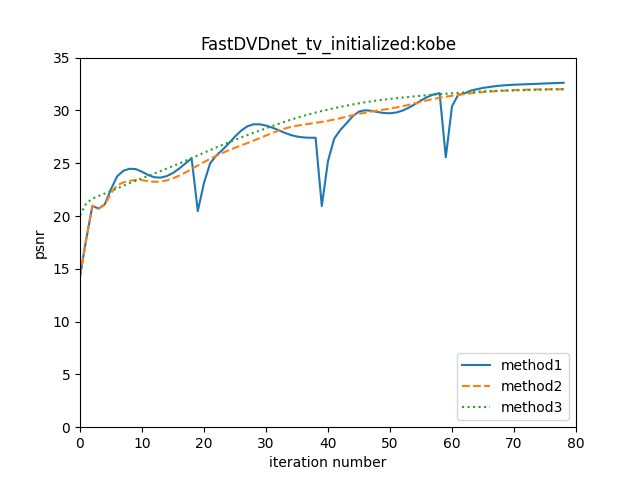
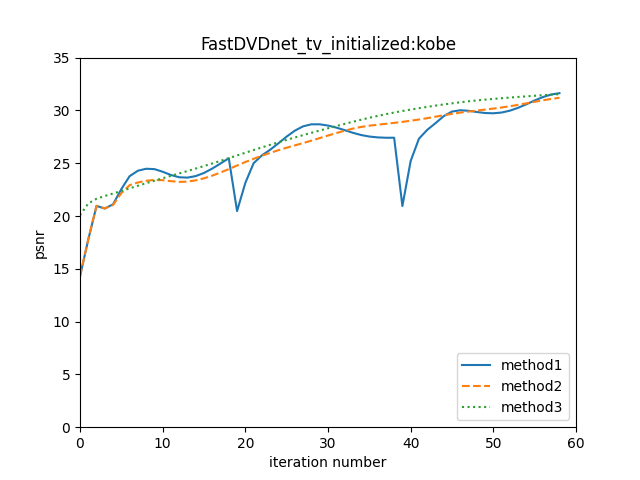
[fix] file
fix file

diff --git a/make_graph.py b/make_graph.py
@@ -5,12 +5,12 @@ import os
 
 dir_path = "/home/jovyan/workdir/results/savedmat"
 # alldatname = ['kobe32','traffic48','runner40','drop40','crash32','aerial32']
-dataname = 'traffic48'
+dataname = 'kobe32'
 data_path = "/grayscale/"+dataname+"/data/"
-file_names = ["gapffdnet_psnr_method1", "gapffdnet_psnr_method2", "gapffdnet_psnr_method3"]
+# file_names = ["gapffdnet_psnr_method1", "gapffdnet_psnr_method2", "gapffdnet_psnr_method3"]
 # file_names = ["gapfastdvdnet_psnr_method1", "gapfastdvdnet_psnr_method2", "gapfastdvdnet_psnr_method3"]
 # file_names = ["gapfastdvdnet_psnr_method1_tv_initialize1", "gapfastdvdnet_psnr_method2_tv_initialize1", "gapfastdvdnet_psnr_method3_tv_initialize1"]
-# file_names = ["gapfastdvdnet_psnr_method1_tv_initialize5", "gapfastdvdnet_psnr_method2_tv_initialize5", "gapfastdvdnet_psnr_method3_tv_initialize5"]
+file_names = ["gapfastdvdnet_psnr_method1_tv_initialize5", "gapfastdvdnet_psnr_method2_tv_initialize5", "gapfastdvdnet_psnr_method3_tv_initialize5"]
 
 # file_names = ["gapfastdvdnet_psnr_method1", "gapfastdvdnet_psnr_method2", "gapfastdvdnet_psnr_method3", "gapfastdvdnet_psnr_method4", "gapfastdvdnet_psnr_method5"]
 # file_names = ["gapfastdvdnet_psnr_method1_tv_initialize1", "gapfastdvdnet_psnr_method2_tv_initialize1", "gapfastdvdnet_psnr_method3_tv_initialize1", "gapfastdvdnet_psnr_method4_tv_initialize1", "gapfastdvdnet_psnr_method5_tv_initialize1"]
@@ -68,32 +68,32 @@ for file_path in file_paths:
 # plt.savefig(curr_gragh_path)
 
 # FFDnet
-fig = plt.figure(0)
-plt.plot(data[0], linestyle = "-", label = "method1")
-plt.plot(data[1], linestyle = "--", label = "method2")
-plt.plot(data[2], linestyle = ":", label = "method3")
-plt.title("FFDnet:{}".format(dataname[:-2]))
-plt.ylim([0,35])
-plt.xlim([0,80])
-plt.legend(loc = "lower right")
-plt.xlabel("iteration number")
-plt.ylabel("psnr")
-curr_gragh_path = gragh_path + "{}.png".format("ffdnet3")
-plt.savefig(curr_gragh_path)
-
-# TVで初期化したやつ
 # fig = plt.figure(0)
 # plt.plot(data[0], linestyle = "-", label = "method1")
 # plt.plot(data[1], linestyle = "--", label = "method2")
 # plt.plot(data[2], linestyle = ":", label = "method3")
-# plt.title("FastDVDnet_tv_initialized:{}".format(dataname[:-2]))
-# plt.ylim([0,40])
+# plt.title("FFDnet:{}".format(dataname[:-2]))
+# plt.ylim([0,35])
 # plt.xlim([0,80])
 # plt.legend(loc = "lower right")
 # plt.xlabel("iteration number")
 # plt.ylabel("psnr")
-# curr_gragh_path = gragh_path + "{}.png".format("fastdvdnet3_tv_initialize5")
+# curr_gragh_path = gragh_path + "{}.png".format("ffdnet3")
 # plt.savefig(curr_gragh_path)
+
+# TVで初期化したやつ
+fig = plt.figure(0)
+plt.plot(data[0][:59], linestyle = "-", label = "method1")
+plt.plot(data[1][:59], linestyle = "--", label = "method2")
+plt.plot(data[2][:59], linestyle = ":", label = "method3")
+plt.title("FastDVDnet_tv_initialized:{}".format(dataname[:-2]))
+plt.ylim([0,35])
+plt.xlim([0,60])
+plt.legend(loc = "lower right")
+plt.xlabel("iteration number")
+plt.ylabel("psnr")
+curr_gragh_path = gragh_path + "{}.png".format("fastdvdnet3_tv_initialize5")
+plt.savefig(curr_gragh_path)
 
 # FFDNet TV
 # fig = plt.figure(0)
